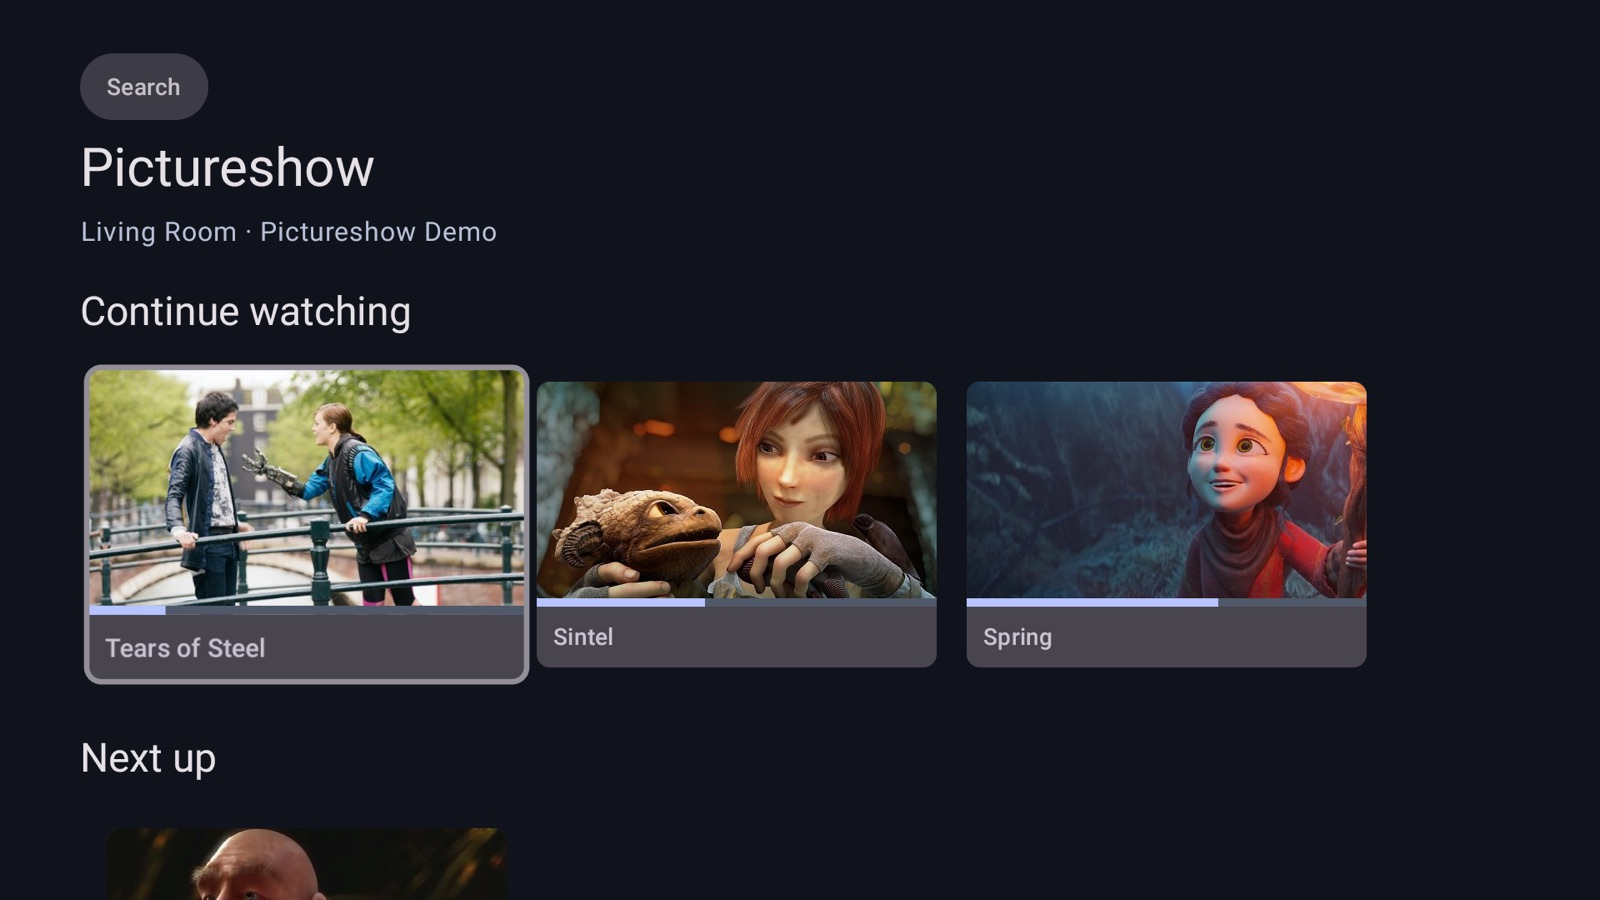
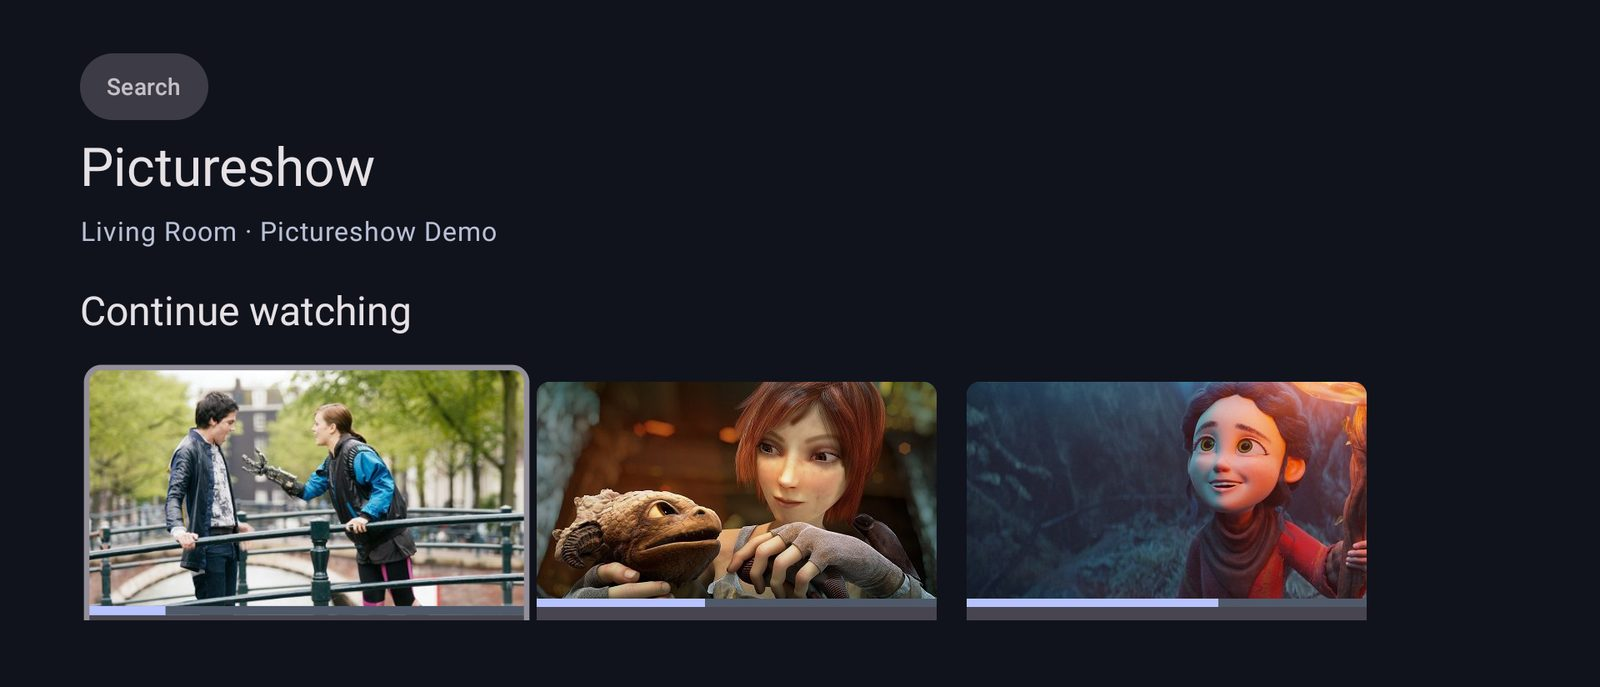
Hero screenshot: crop above the half-visible Next up row
The TV home screen showed the top of a Next up poster cut by the frame edge,
which read as a bad crop. Crop just under Continue watching and extend the
app's own ground colour below; drop the forced 16:9 so the image keeps its
real proportions (width/height attributes updated).

diff --git a/index.html b/index.html
@@ -35,7 +35,7 @@ your own Jellyfin server to use it.</p>
 </div>
 <figure class="screen">
 <img src="/img/home-960.jpg" srcset="/img/home-960.jpg 960w, /img/home-1600.jpg 1600w" sizes="(min-width: 960px) 40rem, 100vw"
-  width="1600" height="900" alt="Pictureshow's home screen on a TV, with Tears of Steel, Sintel and Spring in Continue watching">
+  width="1600" height="687" alt="Pictureshow's home screen on a TV, with Tears of Steel, Sintel and Spring in Continue watching">
 <figcaption>The home screen. Films: Blender Foundation open movies (CC BY).</figcaption>
 </figure>
 </section>

diff --git a/site.css b/site.css
@@ -43,7 +43,7 @@ h2 { font-size: 1.2rem; line-height: 1.3; margin: 0 0 12px; }
 .button:hover { background: #cdd5ff; }
 .screen { margin: 0; }
 .screen img {
-  display: block; width: 100%; aspect-ratio: 16 / 9;
+  display: block; width: 100%; height: auto;
   border-radius: 12px; border: 1px solid var(--line);
   box-shadow: 0 24px 60px -20px rgba(0, 0, 0, 0.7);
 }
